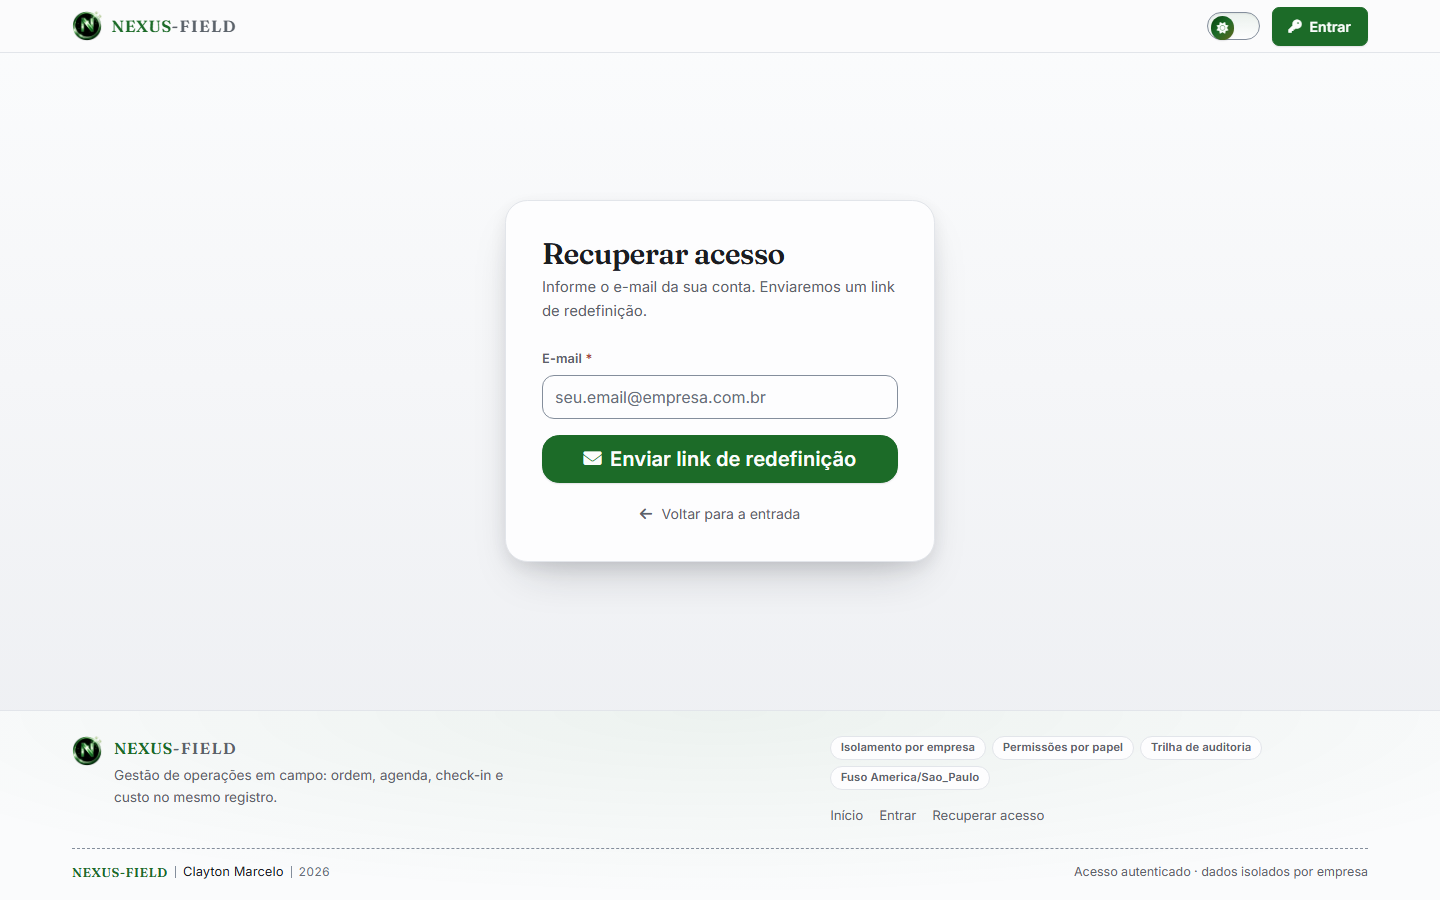
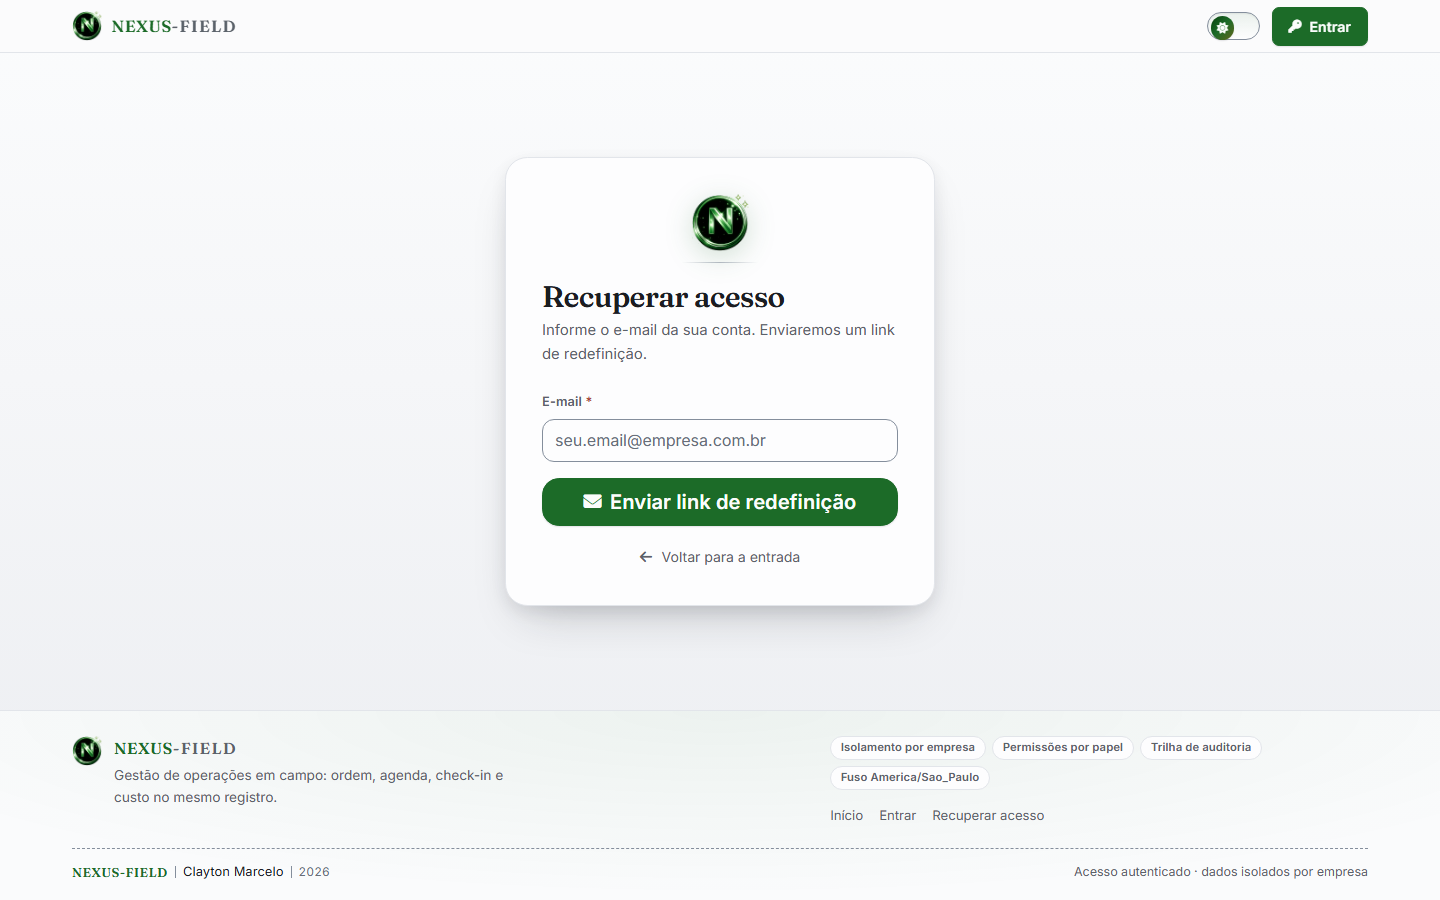
Pende a marca no hero e entrega o medalhão ao navegador
O favicon, o apple-touch-icon e as resoluções da marca saem todos do mesmo
medalhão, e cada ponto da interface agora pede o arquivo no tamanho nativo em
vez de esticar o mesmo PNG de 64px. A cor da barra do celular continua vindo do
script de tema, por tema, porque um theme-color fixo mentiria para metade dos
acessos.

A abertura passou a contar com a logo inteira pendurada no próprio eixo: ela
balança em amplitude decrescente, assenta nivelada, e o halo acende exatamente
nesse instante. As telas de acesso repetem o gesto em amplitude de relógio,
acima do título. O movimento é CSS e não GIF por dois motivos que são do
projeto — o medalhão é gradiente com borda suave, e um GIF o jogaria de volta a
256 cores com transparência de 1 bit; e esta mesma tela é preta no escuro e
branca no claro, coisa que um arquivo único não acompanha. Sobre o preto, um fio
claro em volta do desenho devolve o "FIELD", que antes sumia.

Medi o celular depois disso: o g-5 do hero tinha margem negativa maior que o
respiro do container e abria barra de rolagem horizontal numa janela de 420px.
Virou gx-4 gy-5, que mantém o respiro vertical sem sair da grade.

README e CHANGELOG acompanham a mudança, e as três capturas abertas foram
refeitas em 1440x900 com a marca já nivelada.

Changed region(s): [[0.3438, 0.4356, 0.6562, 0.6844], [0.375, 0.2178, 0.625, 0.4044]]

diff --git a/resources/css/nexusfield/public.css b/resources/css/nexusfield/public.css
@@ -58,6 +58,12 @@
     transform: translateY(-1px);
 }
 
+/* Marca das telas de acesso: o mesmo auto nível, em amplitude de relógio de pulso. */
+.nf-brand-mark--nivelando {
+    transform-origin: 50% 8%;
+    animation: nf-nivelando 9s var(--nf-ease) infinite;
+}
+
 .nf-public > main {
     flex: 1 1 auto;
 }
@@ -78,6 +84,57 @@
     color: var(--nf-text-muted);
     font-size: 1.025rem;
     line-height: 1.65;
+}
+
+/*
+ * Palco da marca na abertura. O medalhão pende do próprio topo e balança com
+ * amplitude cada vez menor até assentar nivelado; o brilho acende no instante
+ * em que ele para. Quem pede movimento reduzido fica na logo parada e acesa no
+ * meio-termo — a regra global de base.css desliga a animação, e os valores
+ * base abaixo são o que sobra quando ela desliga.
+ */
+.nf-brand-stage {
+    position: relative;
+    display: grid;
+    margin-bottom: clamp(1.25rem, 3vw, 2rem);
+    padding-block: clamp(1rem, 3vw, 1.75rem);
+    place-items: center;
+}
+
+.nf-brand-stage::before {
+    position: absolute;
+    inset: 4% 6%;
+    border-radius: 50%;
+    background: radial-gradient(closest-side, color-mix(in srgb, var(--nf-primary) 30%, transparent), transparent 76%);
+    filter: blur(16px);
+    opacity: .55;
+    animation: nf-acender 7s var(--nf-ease) infinite;
+    content: "";
+}
+
+.nf-brand-stage-logo {
+    position: relative;
+    width: clamp(210px, 26vw, 320px);
+    height: auto;
+    transform-origin: 50% 4%;
+    filter: drop-shadow(0 12px 26px color-mix(in srgb, var(--nf-primary) 22%, transparent));
+    animation: nf-auto-nivel 7s var(--nf-ease) infinite;
+}
+
+.nf-brand-stage-nivel {
+    position: absolute;
+    right: 16%;
+    bottom: clamp(.35rem, 1.2vw, .9rem);
+    left: 16%;
+    height: 1px;
+    background: linear-gradient(90deg, transparent, var(--nf-line-strong), transparent);
+    opacity: .6;
+}
+
+/* No escuro o "FIELD" da logo é quase preto sobre preto: o fio claro em volta
+     das letras é o que devolve a palavra inteira para a leitura. */
+[data-bs-theme="dark"] .nf-brand-stage-logo {
+    filter: drop-shadow(0 0 1px rgba(255, 255, 255, .62)) drop-shadow(0 12px 26px color-mix(in srgb, var(--nf-primary) 22%, transparent));
 }
 
 .nf-flow-panel {
@@ -300,6 +357,26 @@
     padding: clamp(1.5rem, 4vw, 2.25rem);
 }
 
+.nf-auth-brand {
+    display: grid;
+    margin-bottom: 1.1rem;
+    place-items: center;
+}
+
+.nf-auth-brand .nf-brand-mark {
+    width: 58px;
+    height: 58px;
+    filter: drop-shadow(0 6px 14px color-mix(in srgb, var(--nf-primary) 20%, transparent));
+}
+
+.nf-auth-brand-nivel {
+    width: 76px;
+    height: 1px;
+    margin-top: .6rem;
+    background: linear-gradient(90deg, transparent, var(--nf-line-strong), transparent);
+    opacity: .6;
+}
+
 .nf-auth-title {
     margin-bottom: .35rem;
     font-size: clamp(1.4rem, 1.15rem + .9vw, 1.85rem);
@@ -358,4 +435,30 @@
     .nf-cta > .btn {
         width: 100%;
     }
+}
+
+/* Oscilação amortecida: larga com amplitude, encolhe a cada volta e trava em 0. */
+@keyframes nf-auto-nivel {
+    0% { transform: rotate(-5.5deg); }
+    9% { transform: rotate(4.2deg); }
+    20% { transform: rotate(-2.4deg); }
+    31% { transform: rotate(1.3deg); }
+    42% { transform: rotate(-.7deg); }
+    53% { transform: rotate(.3deg); }
+    64%, 100% { transform: rotate(0deg); }
+}
+
+@keyframes nf-nivelando {
+    0% { transform: rotate(-2.4deg); }
+    12% { transform: rotate(1.7deg); }
+    26% { transform: rotate(-.9deg); }
+    40% { transform: rotate(.4deg); }
+    52%, 100% { transform: rotate(0deg); }
+}
+
+/* O halo acompanha o assentamento: fraco enquanto balança, aceso quando nivela. */
+@keyframes nf-acender {
+    0%, 58% { opacity: .28; }
+    72% { opacity: 1; }
+    100% { opacity: .28; }
 }

diff --git a/resources/views/welcome.blade.php b/resources/views/welcome.blade.php
@@ -15,7 +15,10 @@
         <main id="conteudo">
             <section class="nf-hero">
                 <div class="container">
-                    <div class="row align-items-center g-5">
+                    {{-- `gx-4` e não `g-5`: a margem negativa de um row g-5 (-24px)
+                         é maior que o respiro do container (12px) e abre barra de
+                         rolagem horizontal no celular. --}}
+                    <div class="row align-items-center gx-4 gy-5">
                         <div class="col-12 col-lg-7">
                             <p class="nf-label">Gestão de operações em campo</p>
                             <h1 class="nf-display nf-hero-title">
@@ -36,6 +39,20 @@
                             </div>
                         </div>
                         <div class="col-12 col-lg-5">
+                            {{-- O medalhão pendurado no próprio eixo: balança com
+                                 amplitude cada vez menor e assenta nivelado, que é
+                                 o que a plataforma faz com a operação do cliente. --}}
+                            <div class="nf-brand-stage">
+                                <img
+                                    class="nf-brand-stage-logo"
+                                    src="{{ asset('img/logo-nexus-480.png') }}"
+                                    width="480"
+                                    height="422"
+                                    alt="NEXUS-FIELD"
+                                />
+                                <span class="nf-brand-stage-nivel" aria-hidden="true"></span>
+                            </div>
+
                             <div class="nf-flow-panel">
                                 <p class="nf-label">O ciclo de um serviço</p>
                                 <ol class="nf-flow">

diff --git a/resources/views/components/site-head.blade.php b/resources/views/components/site-head.blade.php
@@ -10,8 +10,13 @@
 
 <title>{{ $title }}</title>
 
+{{-- Ícones do navegador: o PNG manda nos modernos, o .ico cobre os que só
+     pedem a raiz, e o apple-touch-icon é chato sobre fundo porque a Maçã não
+     aceita transparência. A cor da barra vem do x-script.theme, por tema. --}}
+<link rel="icon" type="image/png" sizes="32x32" href="{{ asset('img/marca-nexus-32.png') }}">
+<link rel="icon" type="image/png" sizes="192x192" href="{{ asset('img/marca-nexus-192.png') }}">
 <link rel="icon" href="{{ asset('favicon.ico') }}">
-<link rel="icon" type="image/png" sizes="64x64" href="{{ asset('img/marca-nexus-64.png') }}">
+<link rel="apple-touch-icon" href="{{ asset('img/apple-touch-icon.png') }}">
 
 @fonts
 <x-script.theme />

diff --git a/resources/views/components/ui/brand-mark.blade.php b/resources/views/components/ui/brand-mark.blade.php
@@ -1,2 +1,18 @@
-{{-- Marca da plataforma: o medalhão da logo oficial, no mesmo arquivo em toda a interface. --}}
-<img class="nf-brand-mark" src="{{ asset('img/marca-nexus-64.png') }}" width="64" height="64" alt="" />
+{{--
+    Marca da plataforma: o medalhão da logo oficial, no mesmo arquivo em toda a
+    interface. `arquivo`/`lado` escolhem a resolução nativa; `animacao` liga o
+    movimento de auto nível das telas abertas.
+--}}
+@props([
+    'arquivo' => 'marca-nexus-64',
+    'lado' => 64,
+    'animacao' => null,
+])
+
+<img
+    class="nf-brand-mark{{ $animacao ? ' nf-brand-mark--'.$animacao : '' }}"
+    src="{{ asset('img/'.$arquivo.'.png') }}"
+    width="{{ $lado }}"
+    height="{{ $lado }}"
+    alt=""
+/>

diff --git a/resources/views/components/auth-shell.blade.php b/resources/views/components/auth-shell.blade.php
@@ -18,6 +18,13 @@
 
         <main class="nf-auth" id="conteudo">
             <div class="nf-auth-card">
+                {{-- A mesma marca da página de boas-vindas, aqui no respiro curto:
+                     balança pouco e para nivelada antes do formulário. --}}
+                <div class="nf-auth-brand">
+                    <x-ui.brand-mark arquivo="marca-nexus-128" lado="128" animacao="nivelando" />
+                    <span class="nf-auth-brand-nivel" aria-hidden="true"></span>
+                </div>
+
                 <h1 class="nf-display nf-auth-title">{{ $title }}</h1>
 
                 @if ($subtitle)

diff --git a/CHANGELOG.md b/CHANGELOG.md
@@ -362,6 +362,22 @@ Padrão de versões: esta reconstrução parte do zero, então o baseline é `0.
   repassando responsabilidade; exclusão só do rascunho; filtros, ordenação, paginação e o CSV sendo a
   mesma contagem da tela; o painel do técnico não contando a fila alheia; e a matriz de permissões. A
   suíte fecha em 133 testes / 1201 asserções.
+- Marca da plataforma nos navegadores: o medalhão da logo virou `public/favicon.ico` (16 e 32
+  embutidos, cada um como PNG dentro do contêiner) e as resoluções que a interface realmente pede —
+  `marca-nexus-32`, `-64`, `-128` e `-192`, mais `apple-touch-icon.png` achatado sobre preto porque o
+  iOS descarta a transparência. `x-site-head` entrega os três links e `x-ui.brand-mark` ganhou
+  `arquivo`/`lado`, para cada ponto da interface chamar a resolução nativa em vez de esticar o mesmo
+  PNG de 64px. A cor da barra do celular continua saindo do `x-script.theme`, por tema — não de um
+  `theme-color` fixo que mentiria para metade dos acessos.
+- Auto nível nas telas abertas: `x-ui.brand-mark` aceita `animacao`, a boas-vindas ganhou o palco
+  `.nf-brand-stage` com a logo inteira (`img/logo-nexus-480.png`) pendurada no próprio topo, e as três
+  telas de acesso repetem o gesto em amplitude de relógio acima do título. O movimento é CSS
+  (`@keyframes nf-auto-nivel` e `nf-nivelando`), não GIF, e o motivo é do projeto: o medalhão é
+  gradiente com borda suave, e um GIF o quantizaria em 256 cores com transparência de 1 bit — além de
+  não acompanhar o tema, já que esta mesma tela hoje é preta ou branca. Em troca, o halo acende no
+  instante em que a marca assenta (`nf-acender`), um fio claro em volta do desenho devolve o "FIELD"
+  que sobre o preto era ilegível, e quem pede movimento reduzido recebe a logo parada e nivelada pela
+  regra global de `base.css`.
 
 ### Alterado
 
@@ -582,6 +598,10 @@ Padrão de versões: esta reconstrução parte do zero, então o baseline é `0.
   ordens um `@return Closure` que só repetia a assinatura e um `!` colado na variável, e de fases
   anteriores três nits: `(new DemoSeeder())` com parênteses, concatenações com espaço ao redor do `.` e
   um nome de método de teste em camelCase no meio da frase em português.
+- O `g-5` da linha do hero abria barra de rolagem horizontal no celular: a margem negativa do row
+  (-24px) passava do respiro do container (12px) e o documento media 432px dentro de uma janela de 420.
+  A linha passou a `gx-4 gy-5`, que devolve os 3rem de respiro vertical entre os blocos sem sair da
+  grade — medido no navegador, `scrollWidth` voltou a bater com a largura da janela em 420px.
 
 ### Removido
 

diff --git a/README.md b/README.md
@@ -45,7 +45,7 @@ os mesmos blocos aparecem nos estados vazios.
 
 | Apresentação pública · tema claro | Entrada · tema escuro |
 | :--: | :--: |
-| <a href="docs/screenshots/01-boas-vindas.png"><img src="docs/screenshots/01-boas-vindas.png" alt="Página de apresentação pública do NEXUS-FIELD em tema claro, com o ciclo de um serviço ao lado do título" width="360"></a> | <a href="docs/screenshots/02-entrada.png"><img src="docs/screenshots/02-entrada.png" alt="Tela de entrada com e-mail, senha com botão de revelar, manter conectado e recuperação de acesso em tema escuro" width="360"></a> |
+| <a href="docs/screenshots/01-boas-vindas.png"><img src="docs/screenshots/01-boas-vindas.png" alt="Página de apresentação pública do NEXUS-FIELD em tema claro, com a logo animada no palco do hero e o ciclo de um serviço ao lado do título" width="360"></a> | <a href="docs/screenshots/02-entrada.png"><img src="docs/screenshots/02-entrada.png" alt="Tela de entrada com e-mail, senha com botão de revelar, manter conectado e recuperação de acesso em tema escuro" width="360"></a> |
 
 | Recuperação de acesso · tema claro | Painel no celular · tema escuro |
 | :--: | :--: |
@@ -187,6 +187,11 @@ São as telas e regras que existem hoje no repositório. O que ainda não está 
 - Paleta "Premium Gourmet + Technology": o verde cromado medido do próprio medalhão como marca,
   latão como contra-ponto, fundo preto no escuro e branco neutro no claro, sem casta de cor
 - Tema claro/escuro persistido em `localStorage` e em cookie, aplicado antes da primeira pintura
+- Marca nos navegadores: `favicon.ico` com 16 e 32 embutidos, PNGs de 32 e 192 e `apple-touch-icon`
+  achatado sobre preto, todos gerados do medalhão oficial
+- Auto nível nas telas abertas: a logo do hero balança em amplitude decrescente e para nivelada, com o
+  halo acendendo no assentamento; o mesmo gesto, menor, acima do título de entrada. É CSS, não GIF, para
+  continuar legível nos dois temas e respeitar `prefers-reduced-motion`
 - Diálogos e avisos só por SweetAlert2 e Toastr — `alert()`, `confirm()` e `prompt()` nativos são
   vetados no projeto e cobertos por teste
 - Layout responsivo, com o painel em uma coluna no celular
